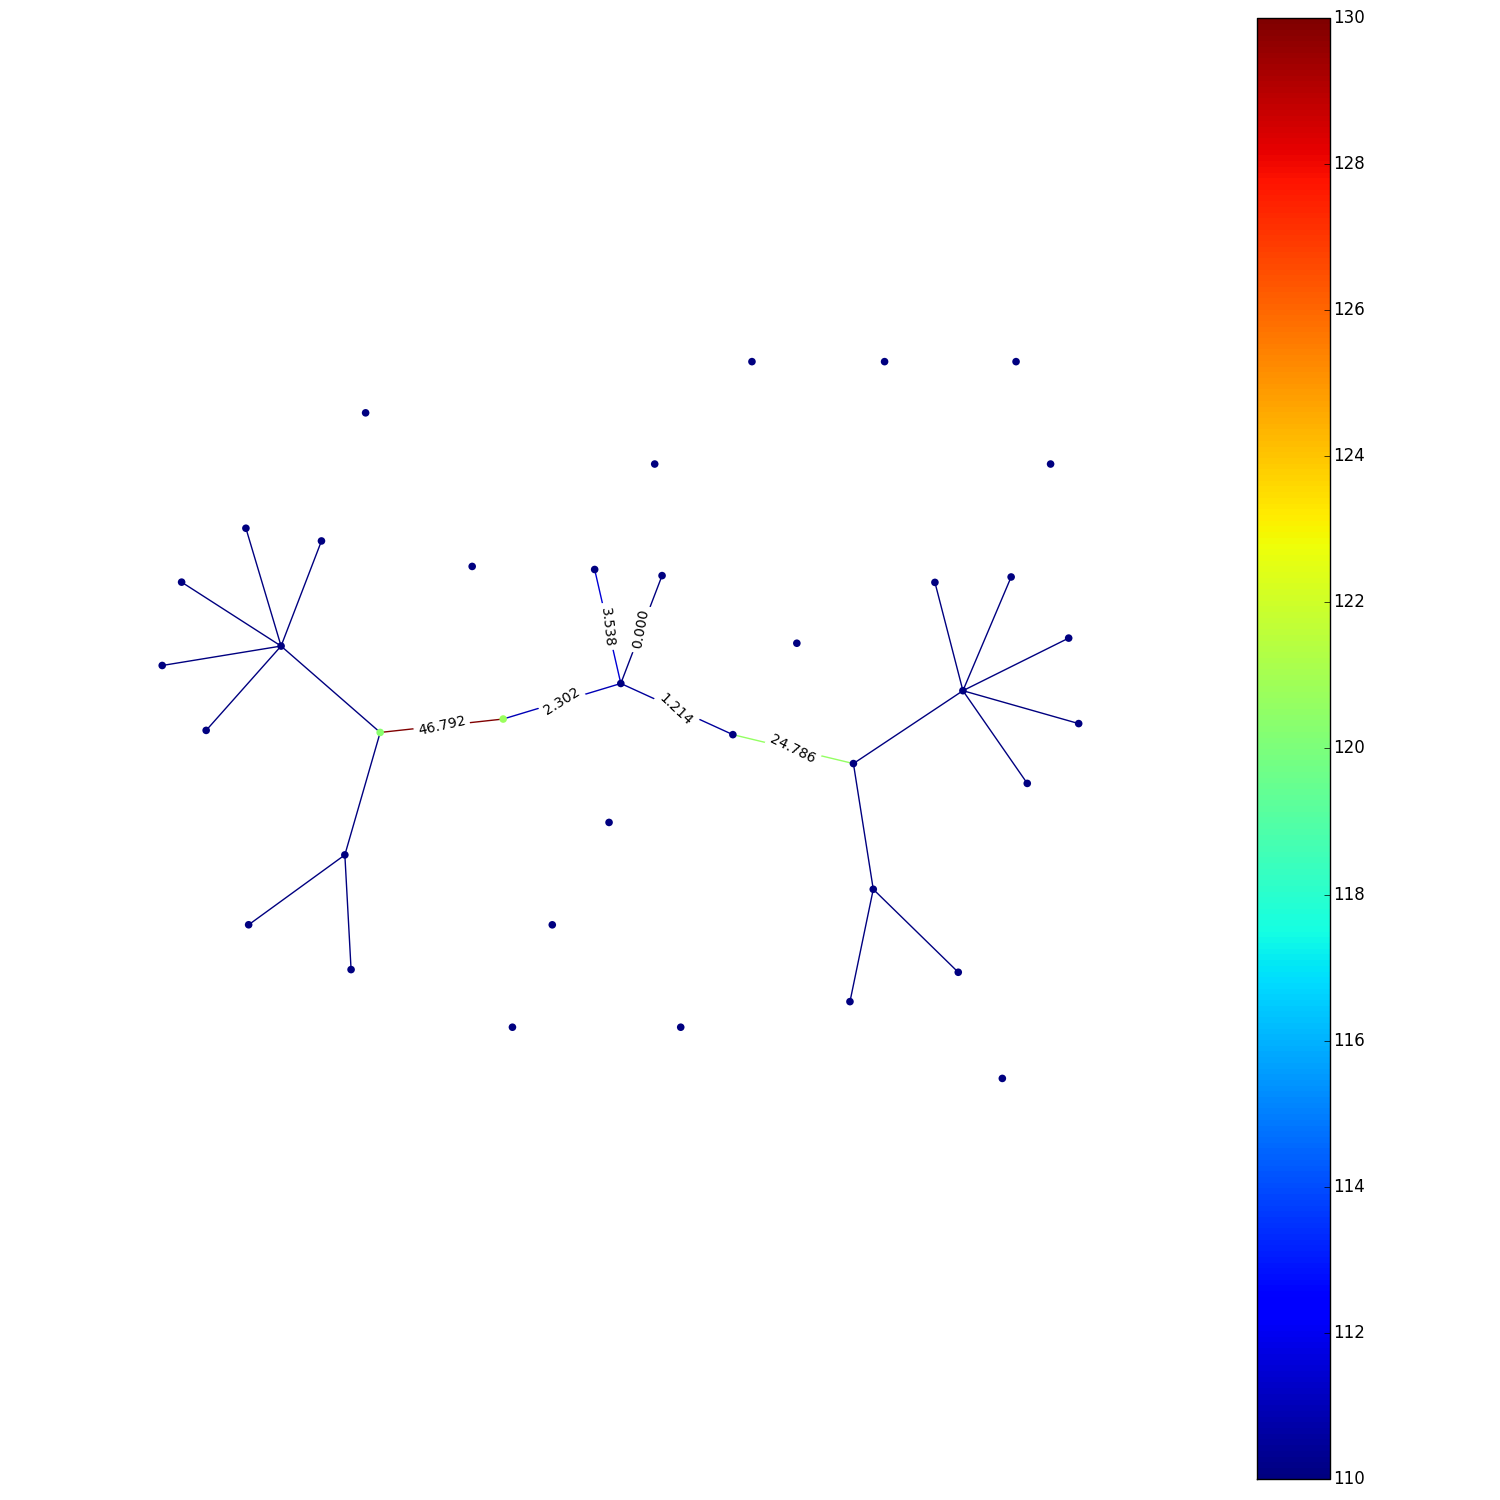
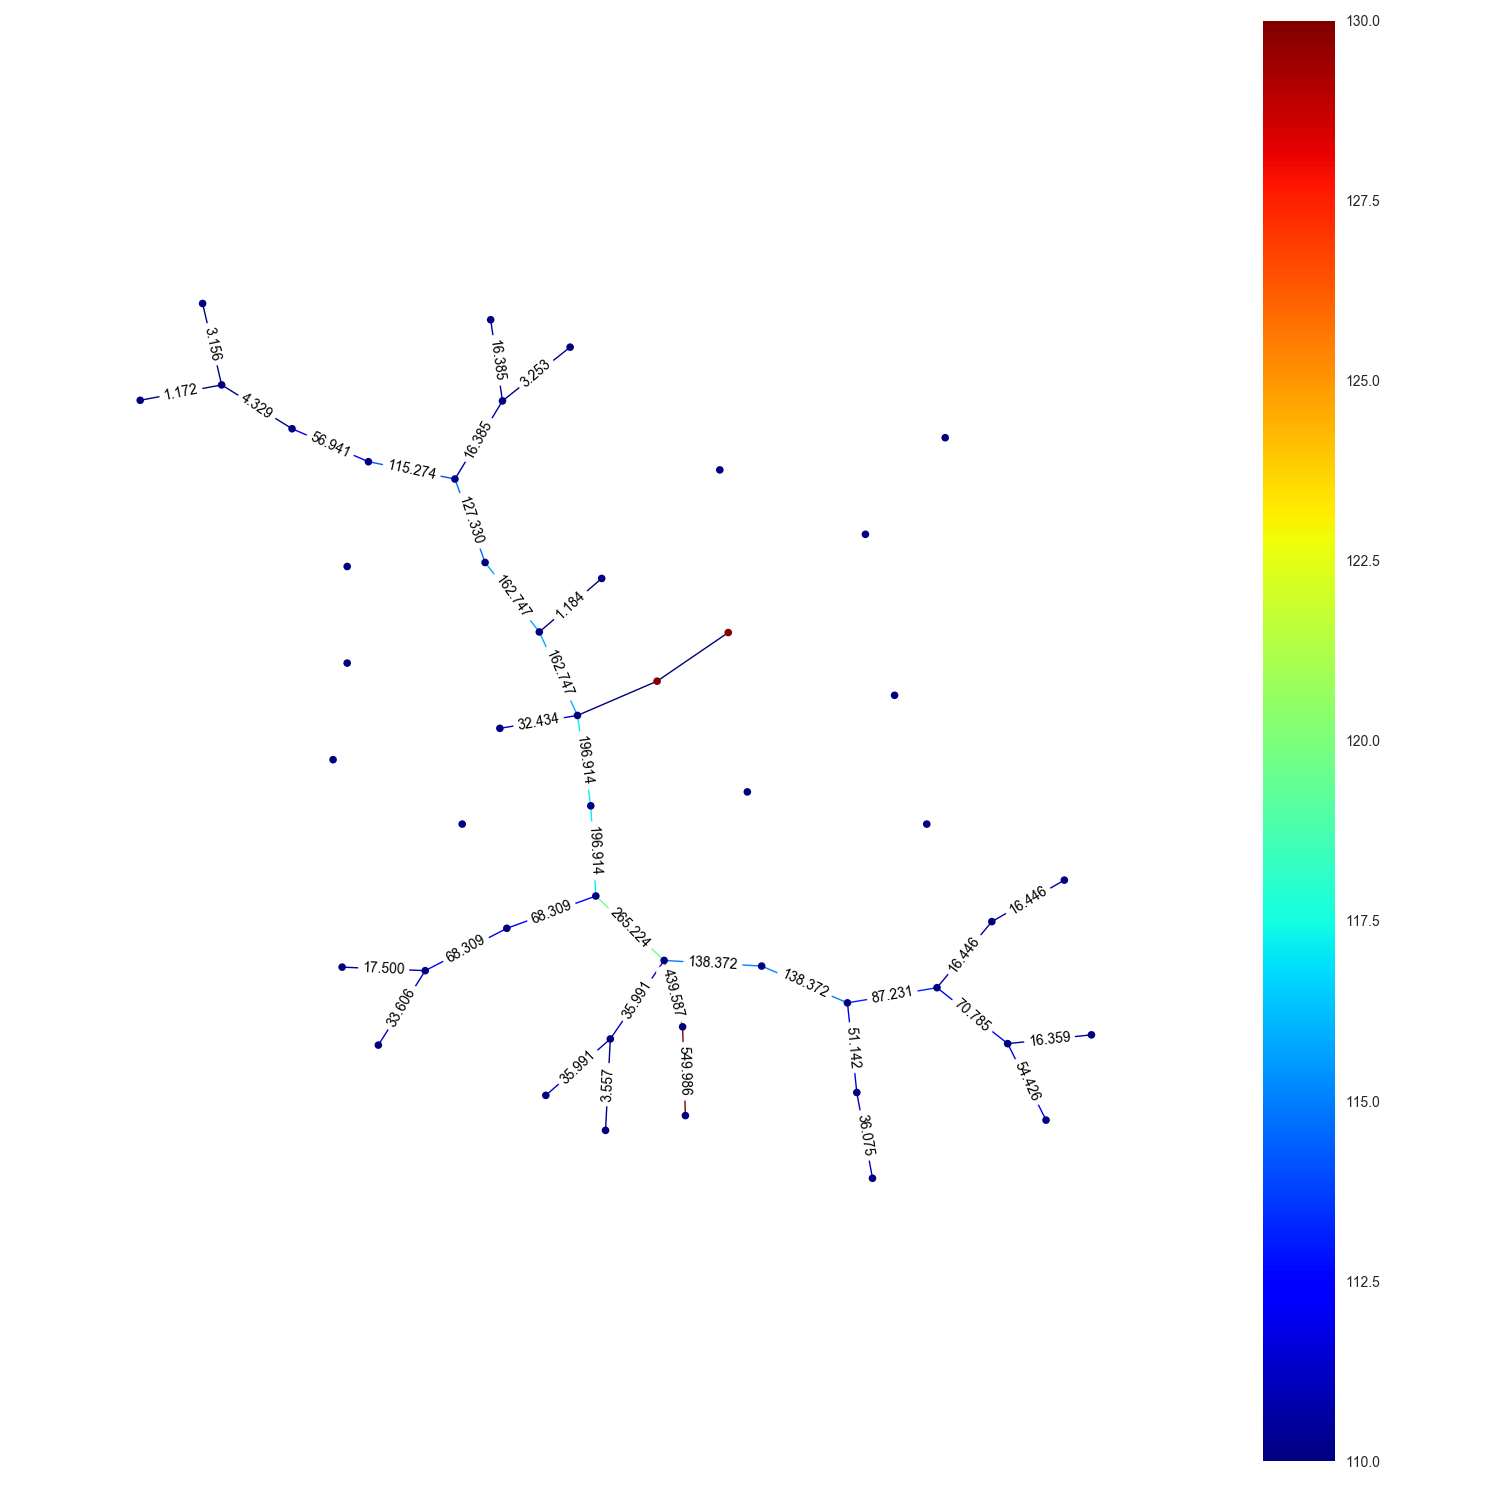
Enhancements to let line ratings out for CIGAR.

diff --git a/omf/scratch/CIGAR/drawFeeder.py b/omf/scratch/CIGAR/drawFeeder.py
@@ -8,8 +8,10 @@ import math
 from networkx.drawing.nx_agraph import graphviz_layout
 import networkx as nx
 
-FNAME = 'smsSingle.glm'
+# FNAME = 'smsSingle.glm'
 # FNAME = 'dist_gen_solar_all.glm'
+FNAME = 'ieee37node.glm'
+
 
 # help(omf.feeder.parse)
 
@@ -41,6 +43,17 @@ def voltPlot(glmPath, workDir=None, neatoLayout=False):
 	biggestKey = max([safeInt(x) for x in tree.keys()])
 	tree[str(biggestKey*10)] = {"object":"voltdump","filename":"voltDump.csv"}
 	tree[str(biggestKey*10 + 1)] = {"object":"currdump","filename":"currDump.csv"}
+	# Line rating dumps.
+	tree[omf.feeder.getMaxKey(tree) + 1] = {
+		'module': 'tape'
+	}
+	tree[omf.feeder.getMaxKey(tree) + 1] = {
+		'object':'group_recorder', 
+		'group':'"class=underground_line"',
+		'interval':3600,
+		'property':'continuous_rating',
+		'file':'UG_line_cont_rating.csv'
+	}
 	# Run Gridlab.
 	if not workDir:
 		workDir = tempfile.mkdtemp()
